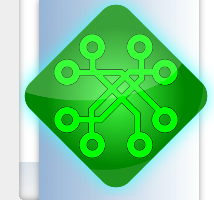
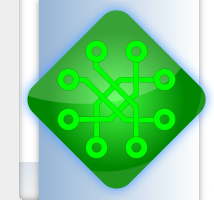
Theme modification according to the visual chart

Changed region(s): [[0.0841, 0.0, 1.0, 0.96]]

diff --git a/style/default/design.css b/style/default/design.css
@@ -116,7 +116,7 @@ hr
 }
 #header_gauche {
     padding-left: 205px;
-    background: url(img/header_gauche4.png) no-repeat;
+    background: url(img/header_gauche.png) no-repeat;
     height: 100%;
 }
 #header_droite {
@@ -124,8 +124,8 @@ hr
     height: 100%;
 }
 #header_texte {
-    background: url(img/texte_header3.png) no-repeat;
-    width: 478px;
+    background: url(img/texte_header.png) no-repeat;
+    width: 490px;
     height: 146px;
     margin: 0px auto;
 }
